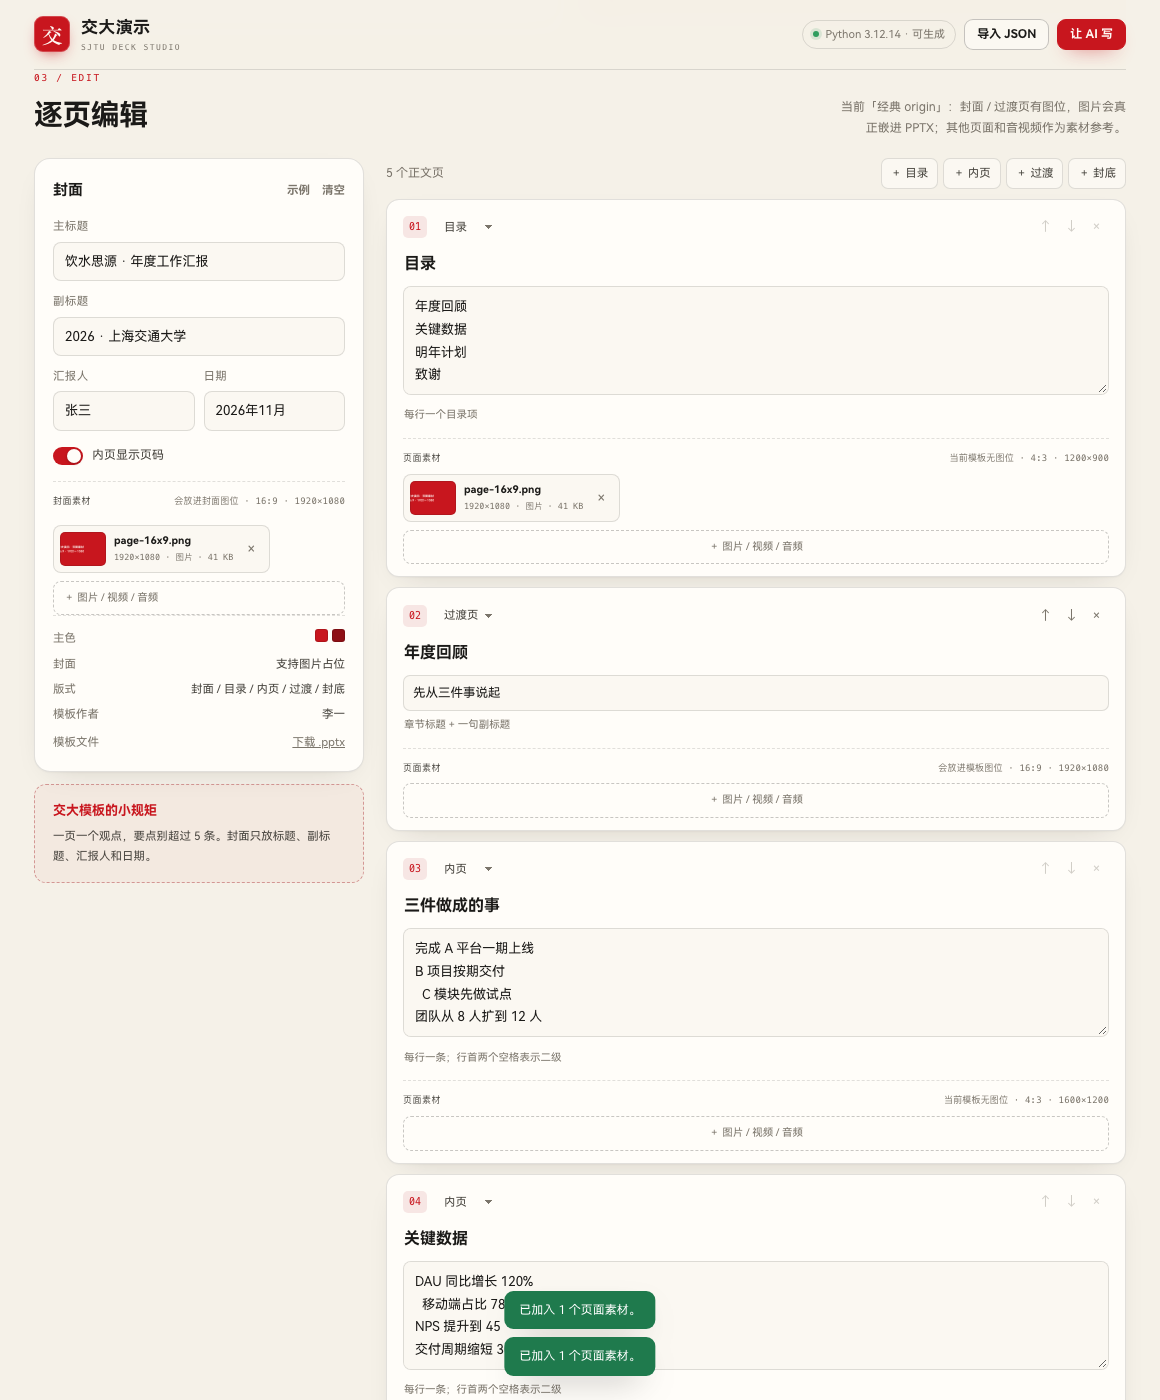
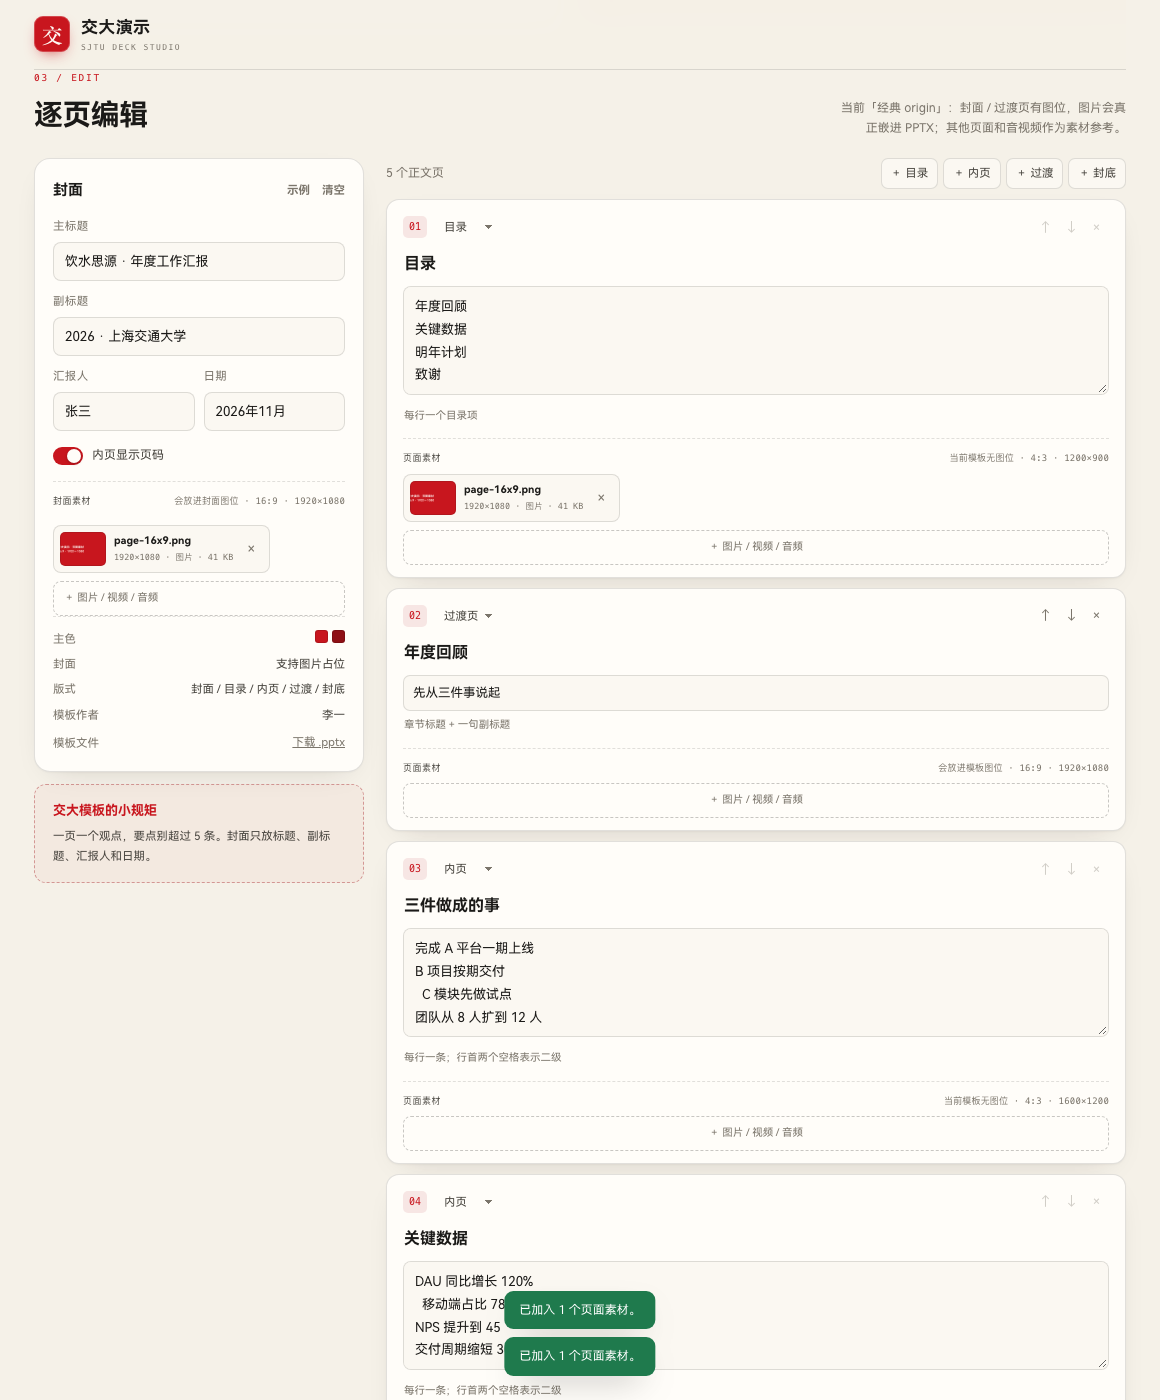
feat: simplify topbar and enlarge hero CTA

diff --git a/web/app.js b/web/app.js
@@ -29,12 +29,10 @@ const state = {
   coverAssets: [],
   mode: 'quick',
   quickPages: 8,
-  health: null,
 }
 
 let lastDeck = null
 let saveTimer = null
-let healthDetail = null
 
 const els = {}
 
@@ -192,8 +190,6 @@ function renderHero() {
   const t = currentTemplate()
   if (!t) return
   els.heroTemplateName.textContent = `${t.label} ${t.name}`
-  const pages = visibleSlides().length + (state.title.trim() ? 1 : 0)
-  els.heroPages.textContent = `${pages} 页`
 }
 
 /* ── 模板 ─────────────────────────────────────────────── */
@@ -345,7 +341,6 @@ function setTemplate(id) {
   renderCoverAssets()
   if (state.mode === 'edit') renderSlides()
   updateSummary()
-  if (!$('#aiModal').hidden) $('#aiTemplateName').textContent = `${currentTemplate().label} ${currentTemplate().name}`
   debounceSave()
 }
 
@@ -670,7 +665,6 @@ function updateSummary() {
   const t = currentTemplate()
   const pages = visibleSlides().length + (state.title.trim() ? 1 : 0)
   els.slideCount.textContent = `${state.slides.length} 个正文页`
-  els.heroPages.textContent = `${pages} 页`
   els.genTitle.textContent = state.title.trim() || '未命名演示'
   els.genMeta.textContent = t ? `${t.label} 模板 · ${pages} 页 · ${state.slides.length} 个正文页` : `${pages} 页`
 }
@@ -1249,94 +1243,6 @@ function exportJson() {
   setTimeout(() => URL.revokeObjectURL(url), 1000)
 }
 
-async function importJson(file) {
-  try {
-    const text = await file.text()
-    const data = JSON.parse(text)
-    applyDraft(data)
-    renderTemplates()
-    renderFacts()
-    renderSlides()
-    renderHero()
-    updateSummary()
-    saveDraft()
-    toast(`已导入「${state.title || '未命名'}」，${state.slides.length} 个正文页。`, 'ok')
-  } catch (error) {
-    toast(`导入失败：${error.message}`, 'error')
-  }
-}
-
-/* ── AI 草稿 ──────────────────────────────────────────── */
-
-function aiPrompt() {
-  const t = currentTemplate()
-  const brief = els.aiBrief.value.trim()
-  const textMats = state.materials.filter((m) => m.chars > 0)
-  const imageMats = state.materials.filter((m) => m.kind === 'image')
-  const lines = [
-    '用 sjtu-ppt skill 帮我做一份交大风格的 PPT。',
-    '',
-    `模板：${t.label}（${t.name}，${t.file}）`,
-    brief ? `主题与要求：\n${brief}` : '主题我还没想好。先问我三个问题：讲给谁听、想讲什么、大概多少页。',
-  ]
-
-  if (textMats.length) {
-    lines.push('', '我上传了这些材料，请优先依据材料内容写，不要编造材料里没有的数据：')
-    let budget = 6000
-    for (const material of textMats.slice(0, 8)) {
-      if (budget <= 0) break
-      const excerpt = material.excerpt.slice(0, Math.min(1600, budget))
-      budget -= excerpt.length
-      lines.push(`【${material.name}】`, excerpt)
-    }
-    lines.push('', '材料全文在本地，需要细节时可以直接读：')
-    for (const material of textMats) lines.push(`- ${material.name}：${material.textPath}`)
-  }
-
-  if (imageMats.length) {
-    lines.push('', '图片素材（可用于封面 / 过渡页）：')
-    for (const material of imageMats) lines.push(`- ${material.name}：${material.filePath}`)
-  }
-
-  const pageAssets = []
-  ;(state.coverAssets || []).forEach((asset) => pageAssets.push(`封面：${asset.name} — ${asset.filePath}`))
-  state.slides.forEach((slide, index) => {
-    for (const asset of slide.assets || []) pageAssets.push(`第 ${index + 1} 页（${layoutInfo(slide.layout).label}）：${asset.name} — ${asset.filePath}`)
-  })
-  if (pageAssets.length) {
-    lines.push('', '逐页素材（图片会尽量放进模板图位，音视频仅作参考）：')
-    lines.push(...pageAssets)
-  }
-
-  lines.push(
-    '',
-    '请先给我 6–8 页的提纲；如果信息已经够，也可以直接生成。生成时用 sjtu_ppt_generate 工具，把 .pptx 放到当前工作区，并把路径告诉我。',
-  )
-  return lines.join('\n')
-}
-
-function openAi(prefill = '') {
-  const t = currentTemplate()
-  if (t) els.aiTemplateName.textContent = `${t.label} ${t.name}`
-  if (typeof prefill === 'string' && prefill && !els.aiBrief.value.trim()) els.aiBrief.value = prefill
-  const mats = state.materials
-  const chars = mats.filter((m) => m.chars > 0).reduce((sum, m) => sum + m.chars, 0)
-  els.aiMaterialNote.hidden = mats.length === 0
-  if (mats.length) {
-    const names = mats.slice(0, 3).map((m) => m.name).join('、')
-    els.aiMaterialNote.textContent = `会带上 ${mats.length} 份材料${chars ? `（约 ${Math.min(chars, 6000).toLocaleString('zh-CN')} 字摘录）` : ''}：${names}${mats.length > 3 ? ' 等' : ''}`
-  }
-  openModal('ai')
-  setTimeout(() => els.aiBrief.focus(), 80)
-}
-
-function startAi() {
-  const prompt = aiPrompt()
-  window.parent.postMessage({ type: 'sjtu-ppt:start', prompt }, location.origin)
-  closeModal('ai')
-  toast('已打开新对话，草稿在输入框里；补完直接发送。', 'ok')
-}
-
 /* ── 模态框 ───────────────────────────────────────────── */
 
 function openModal(name) {
@@ -1394,31 +1300,6 @@ function clearAll() {
   )
 }
 
-/* ── 环境检查 ─────────────────────────────────────────── */
-
-async function checkHealth() {
-  try {
-    const response = await fetch('/sjtu-ppt/api/health')
-    const data = await response.json()
-    state.health = data.python
-    healthDetail = data
-    if (data.python?.ok) {
-      els.runtime.classList.add('ok')
-      els.runtime.classList.remove('bad')
-      els.runtimeText.textContent = `Python ${data.python.python || '3.x'} · 可生成`
-      els.runtime.title = `${data.python.path} · python-pptx ${data.python.version}`
-    } else {
-      els.runtime.classList.add('bad')
-      els.runtime.classList.remove('ok')
-      els.runtimeText.textContent = '生成环境未就绪'
-      els.runtime.title = data.python?.error || ''
-    }
-  } catch {
-    els.runtime.classList.add('bad')
-    els.runtimeText.textContent = '生成环境未知'
-  }
-}
-
 /* ── 初始化 ───────────────────────────────────────────── */
 
 async function boot() {
@@ -1428,7 +1309,6 @@ async function boot() {
   els.tplPreviewCaption = $('#tplPreviewCaption')
   els.tplFacts = $('#tplFacts')
   els.heroTemplateName = $('#heroTemplateName')
-  els.heroPages = $('#heroPages')
   els.fTitle = $('#fTitle')
   els.fSubtitle = $('#fSubtitle')
   els.fAuthor = $('#fAuthor')
@@ -1451,7 +1331,6 @@ async function boot() {
   els.materialCount = $('#materialCount')
   els.materialSummary = $('#materialSummary')
   els.dropStatus = $('#dropStatus')
-  els.aiMaterialNote = $('#aiMaterialNote')
   els.textTitle = $('#textTitle')
   els.textMeta = $('#textMeta')
   els.materialText = $('#materialText')
@@ -1478,10 +1357,6 @@ async function boot() {
   els.resultCover = $('#resultCover')
   els.resultWarn = $('#resultWarn')
   els.resultEdit = $('#resultEdit')
-  els.aiBrief = $('#aiBrief')
-  els.aiTemplateName = $('#aiTemplateName')
-  els.runtime = $('#runtime')
-  els.runtimeText = $('#runtimeText')
   els.toasts = $('#toasts')
 
   document.documentElement.dataset.scheme = matchMedia('(prefers-color-scheme: dark)').matches ? 'dark' : 'light'
@@ -1505,6 +1380,7 @@ async function boot() {
   renderFacts()
   renderSlides()
   renderHero()
+  renderEditNote()
   updateSummary()
   renderCoverAssets()
   setQuickPages(state.quickPages)
@@ -1516,7 +1392,6 @@ async function boot() {
   }
   setMode(savedMode === 'edit' ? 'edit' : 'quick', { scroll: false })
 
-  checkHealth()
   loadRecent()
   loadMaterials()
 }
@@ -1585,7 +1460,6 @@ function bind() {
     if (close) closeModal(close.dataset.close)
   })
 
-  for (const button of ['#aiTop', '#aiHero']) $(button).addEventListener('click', () => openAi())
   for (const card of $$('.mode-card')) {
     card.addEventListener('click', () => setMode(card.dataset.mode))
   }
@@ -1594,7 +1468,6 @@ function bind() {
     if (button) setQuickPages(button.dataset.pages)
   })
   els.quickGenerate.addEventListener('click', runQuick)
-  $('#aiStartBtn').addEventListener('click', startAi)
 
   els.dropZone.addEventListener('click', () => {
     if (!els.dropZone.classList.contains('busy')) els.materialInput.click()
@@ -1709,13 +1582,6 @@ function bind() {
   $('#generateBtn').addEventListener('click', generate)
   $('#exportBtn').addEventListener('click', exportJson)
 
-  $('#importBtn').addEventListener('click', () => $('#fileInput').click())
-  $('#fileInput').addEventListener('change', (event) => {
-    const file = event.target.files && event.target.files[0]
-    if (file) importJson(file)
-    event.target.value = ''
-  })
-
   els.recentList.addEventListener('click', (event) => {
     const reveal = event.target.closest('[data-reveal]')
     if (reveal) revealDeck(reveal.dataset.reveal)
@@ -1733,15 +1599,10 @@ function bind() {
     toast('已带入逐页编辑；图片以生成的 PPT 为准。', 'ok')
   })
 
-  els.runtime.addEventListener('click', () => {
-    if (state.health?.ok) toast(`生成环境：Python ${state.health.python || '3.x'} · python-pptx ${state.health.version}\n${state.health.path}`, 'ok')
-    else toast(healthDetail?.python?.error || '还读不到生成环境。', 'error')
-  })
-
   document.addEventListener('keydown', (event) => {
     if (event.key === 'Escape') {
       hideTemplatePreview()
-      for (const name of ['ai', 'result', 'text']) closeModal(name)
+      for (const name of ['result', 'text']) closeModal(name)
     }
   })
 
@@ -1752,7 +1613,6 @@ function bind() {
     if (data.type === 'sjtu-ppt:scheme' && (data.scheme === 'dark' || data.scheme === 'light')) {
       document.documentElement.dataset.scheme = data.scheme
     }
-    if (data.type === 'sjtu-ppt:start-failed') toast(`打开新对话失败：${data.message || '未知错误'}`, 'error')
   })
 }
 

diff --git a/web/index.html b/web/index.html
@@ -14,13 +14,6 @@
           <span class="seal">交</span>
           <span class="brand-text"><strong>交大演示</strong><small>SJTU DECK STUDIO</small></span>
         </a>
-        <div class="top-actions">
-          <button class="runtime" id="runtime" type="button" title="检查生成环境">
-            <span class="dot"></span><span id="runtimeText">检查环境…</span>
-          </button>
-          <button class="btn ghost sm" id="importBtn" type="button">导入 JSON</button>
-          <button class="btn primary sm" id="aiTop" type="button">让 AI 写</button>
-        </div>
       </header>
 
       <main id="top">
@@ -39,14 +32,11 @@
             <div class="hero-bottom">
               <div class="hero-side">
                 <div class="hero-actions">
-                  <a class="btn primary lg" href="#modes">开始制作</a>
-                  <button class="btn quiet lg" id="aiHero" type="button">让 AI 从大纲写 <span class="arrow">↗</span></button>
+                  <a class="btn primary lg hero-start" href="#modes">开始制作</a>
                 </div>
                 <div class="hero-current">
                   <span class="hero-dot"></span>当前模板
                   <strong id="heroTemplateName">交大红 basic</strong>
-                  <span class="sep">/</span>
-                  <span id="heroPages">6 页</span>
                 </div>
               </div>
               <div class="hero-stats" aria-label="插件能力">
@@ -286,28 +276,6 @@
       <span id="tplPreviewCaption"></span>
     </div>
 
-    <div class="modal" id="aiModal" hidden>
-      <div class="modal-backdrop" data-close="ai"></div>
-      <div class="modal-panel" role="dialog" aria-modal="true" aria-labelledby="aiTitle">
-        <button class="modal-x" data-close="ai" aria-label="关闭">×</button>
-        <p class="kicker">AI DRAFT</p>
-        <h3 id="aiTitle">让 AI 从大纲开始</h3>
-        <p class="modal-lede">
-          会打开一个新对话，并把要求填进输入框，不会自动发送。AI 会用随附的 sjtu-ppt 技能和
-          <strong id="aiTemplateName">交大红 basic</strong> 模板。
-        </p>
-        <p class="ai-material-note" id="aiMaterialNote" hidden></p>
-        <label class="field">
-          <span>主题 / 听众 / 想讲什么</span>
-          <textarea id="aiBrief" rows="5" maxlength="2000" placeholder="例如：给学院做 15 分钟的年度科研汇报，重点是三个项目进展和明年的申报计划。"></textarea>
-        </label>
-        <div class="modal-actions">
-          <button class="btn ghost" data-close="ai" type="button">取消</button>
-          <button class="btn primary" id="aiStartBtn" type="button">打开新对话</button>
-        </div>
-      </div>
-    </div>
-
     <div class="modal" id="textModal" hidden>
       <div class="modal-backdrop" data-close="text"></div>
       <div class="modal-panel text-panel" role="dialog" aria-modal="true" aria-labelledby="textTitle">
@@ -341,7 +309,6 @@
     </div>
 
     <div class="toast-stack" id="toasts" aria-live="polite"></div>
-    <input type="file" id="fileInput" accept=".json,application/json" hidden />
     <input type="file" id="assetInput" multiple hidden accept="image/*,video/*,audio/*" />
     <script src="/sjtu-ppt/app.js" defer></script>
   </body>

diff --git a/lib/index.js b/lib/index.js
@@ -1,4 +1,4 @@
-// 交大演示 · DeepSeek Harness 插件：Host 半边（0.3.2 模板矩阵）
+// 交大演示 · DeepSeek Harness 插件：Host 半边（0.3.3 精简顶栏）
 // 1. 把随附的 sjtu-ppt skill 注册进 ctx.skills，模型和 /sjtu-ppt 命令都能用
 //    再给模型一个生成工具 sjtu_ppt_generate（lib/tool.js）
 // 2. /sjtu-ppt/                    侧栏页面（web/）

diff --git a/web/style.css b/web/style.css
@@ -296,6 +296,13 @@ code {
   border-radius: 10px;
 }
 
+.btn.hero-start {
+  min-width: 154px;
+  padding: 15px 30px;
+  font-size: 15px;
+  border-radius: 11px;
+}
+
 .btn:disabled {
   opacity: 0.55;
   cursor: wait;

diff --git a/README.md b/README.md
@@ -13,7 +13,7 @@
 - 注册 `sjtu-ppt` 技能和 `sjtu_ppt_generate` 工具，对话里也能生成并交付
 - 使用 DSH 桌面版自带的 Python（含 python-pptx），不额外装依赖
 - 界面字体使用 HarmonyOS Sans SC（Regular / Bold）
-- 已在 DSH 0.2.1-rc.5 + python-pptx 1.0.2 下验证：真实侧栏入口、生成、下载、AI 草稿桥接都通过
+- 已在 DSH 0.2.1-rc.5 + python-pptx 1.0.2 下验证：真实侧栏入口、快速生成、逐页素材、下载都通过
 
 ![交大演示侧栏工作台](docs/panel.png)
 
@@ -96,10 +96,6 @@ node "/Applications/DeepSeek Harness.app/Contents/Resources/runtime/primary-runt
 
 ## 用
 
-### 让 AI 写
-
-点「让 AI 写」，填主题 / 听众 / 想讲什么，会打开一个新对话，把要求填进输入框（不自动发送）。AI 会用 `sjtu-ppt` 技能，需要时调用 `sjtu_ppt_generate` 工具，把 `.pptx` 放到当前工作区并交给 `present`。
-
 ### 在对话里直接用
 
 技能名：`sjtu-ppt`；工具名：`sjtu_ppt_generate`。工具参数：
@@ -119,7 +115,7 @@ node "/Applications/DeepSeek Harness.app/Contents/Resources/runtime/primary-runt
 - **快速模式材料台**：Word（docx / doc / rtf）、PDF、Markdown / 文本 / CSV / JSON、PPT / PPTX、Excel / XLSX、图片，单个 ≤ 25 MB。拖入或点击选择，文字自动提取，点「看全文」检查。
 - **逐页素材**：图片（png / jpg / webp / gif）、视频（mp4 / mov / webm / m4v）、音频（mp3 / wav / m4a / aac / ogg），单个 ≤ 25 MB；上传时会记录图片宽高。
 - 所有文件只留在本机：`~/.dsh/sjtu-ppt/materials/<id>/`（原文件 + `text.txt` + `meta.json`），不上传云端。材料台和逐页素材用 `scope` 区分，互不混在一起。
-- 快速模式会把材料摘录和全文路径放进模型提示词；AI 会话（「让 AI 写」）也会带上材料。
+- 快速模式会把材料摘录和全文路径放进模型提示词。
 - `origin` 模板的封面 / 过渡页有图片占位，图片会嵌入；其他模板或页面没有图位，图片只作为素材参考。音视频不会自动嵌入 `.pptx`。
 - 旧版 `.ppt` / `.xls` 可以上传，但取字会提示另存为 `.pptx` / `.xlsx`。
 
@@ -182,7 +178,7 @@ node "/Applications/DeepSeek Harness.app/Contents/Resources/runtime/primary-runt
 export DSH_SJTU_PPT_PYTHON=/path/to/python3
 ```
 
-页面顶部会显示「Python 3.12 · 可生成」；读不到环境时会变成红色状态，点一下能看到具体原因。
+生成时如果找不到 Python，会直接返回错误，不影响已经生成的文件。
 
 ## 开发
 
